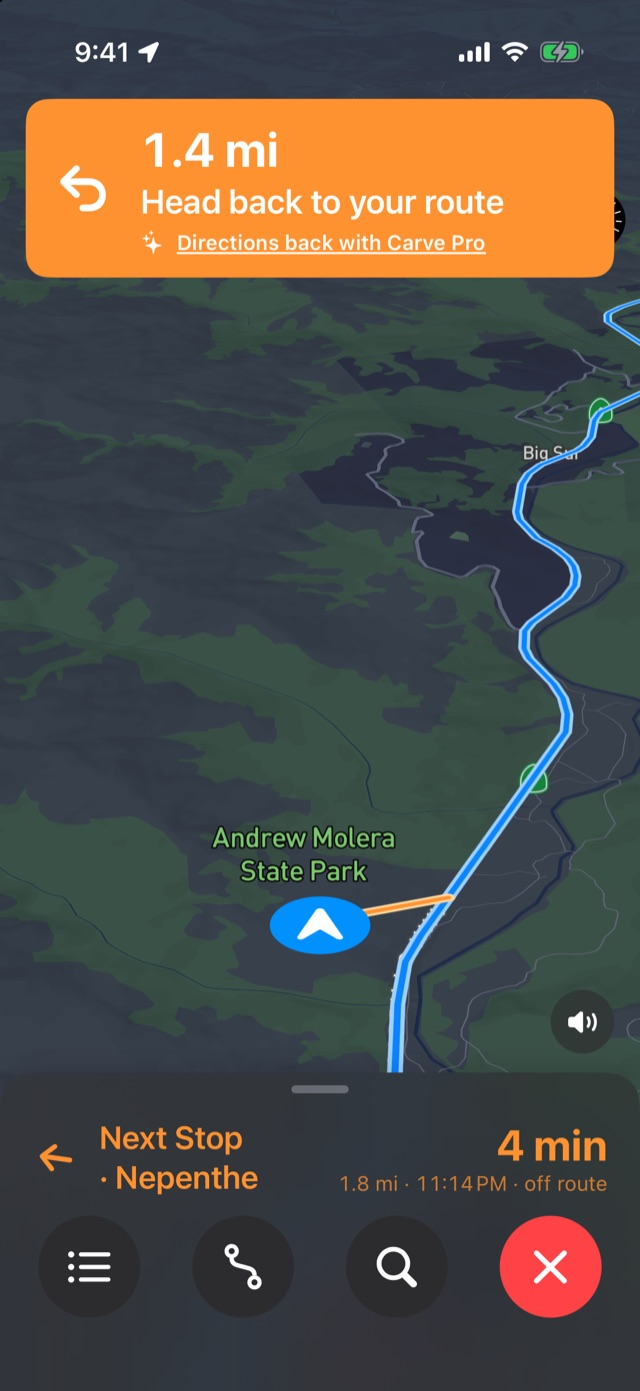
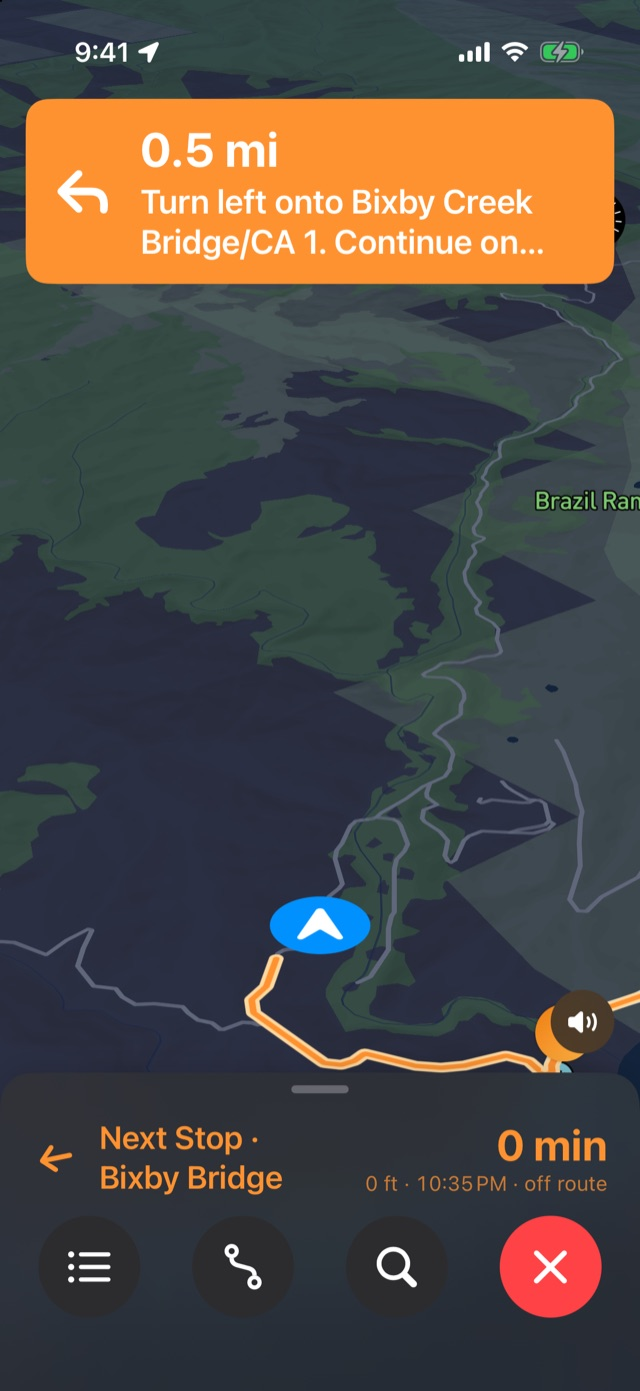
carve.run: a real rejoin route for Return, and no cropping in the frames
The Return block showed the free state's short straight tether; it now
shows the Pro rejoin guide — the car two kilometres up Old Coast Road
above Bixby Bridge, with the orange route winding back down to Highway
1 under "0.5 mi · Turn left onto Bixby Creek Bridge/CA 1". The phone
frames were cropping a few pixels off each side of every screenshot:
the outer box carried the screen's aspect ratio, so the screen inside
the bezel was slightly narrower and object-fit trimmed the edges. The
screen now carries the aspect and the bezel wraps it.

diff --git a/index.html b/index.html
@@ -104,13 +104,15 @@
 
   /* phone frame around a real screenshot (iPhone 17 Pro, 1206×2622) */
   .phone {
-    width: min(320px, 84%); margin: 0 auto; aspect-ratio: 1206 / 2622;
+    width: min(320px, 84%); margin: 0 auto;
     background: #101319; border: 1px solid var(--line-2); border-radius: 44px;
     padding: 11px; box-shadow: 0 30px 80px rgba(0,0,0,.6), 0 0 0 1px rgba(255,255,255,.03);
     transform: rotate(-2.5deg);
   }
   .phone.tilt-right { transform: rotate(2.5deg); }
-  .phone-screen { width: 100%; height: 100%; border-radius: 34px; overflow: hidden;
+  /* The screen carries the screenshot's exact aspect, so nothing is cropped
+     at the edges — the bezel is added around it, not taken out of it. */
+  .phone-screen { width: 100%; aspect-ratio: 1206 / 2622; border-radius: 34px; overflow: hidden;
                   position: relative; background: #0A0E14; }
   .phone-screen img { position: absolute; inset: 0; width: 100%; height: 100%; object-fit: cover; }
 
